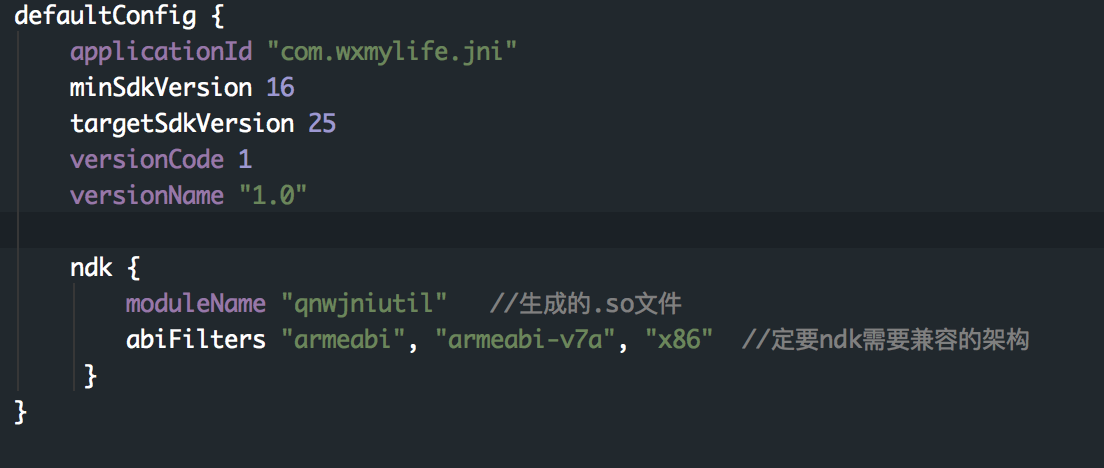
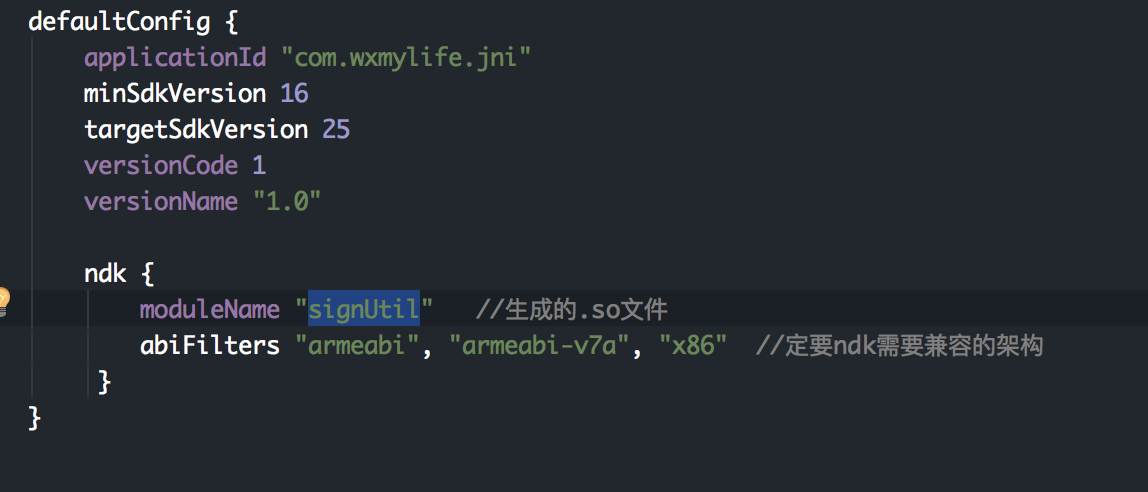
change

diff --git a/README.md b/README.md
@@ -20,22 +20,42 @@
 ###三.集成：
 1.配置ndk环境
 打开项目中Project Structure，配置ndk目录(如何下载，自行描述)
-[]()
+
+[示例图片](https://github.com/wxmylife/JNI_SignDemo/blob/master/img/1.png)
 
 2.配置app下的build.gradle
 
+[示例图片](https://github.com/wxmylife/JNI_SignDemo/blob/master/img/2.png)
+
+3.修改项目下gradle.properties文件
+
+填加如下命令
+
+`android.useDeprecatedNdk=true`
+
+
 3.调用c++的java类
+
+**必须与app下的build.gradle中moduleName相同**
 
 ```
 public class JNIUtils {
 
     static {
-        System.loadLibrary("signUtil");
+        System.loadLibrary("signUtil");//必须与app下的build.gradle中moduleName相同
     }
 
     public static native String getPublicKey(Object obj);
 }
 ```
 4.生成class文件
+
+选择**Build**下的**Make Project**
+
+[示例图片](https://github.com/wxmylife/JNI_SignDemo/blob/master/img/4.png)
+
+生成的class文件：
+
+[示例图片](https://github.com/wxmylife/JNI_SignDemo/blob/master/img/7.png)
 
 5.生成头文件
